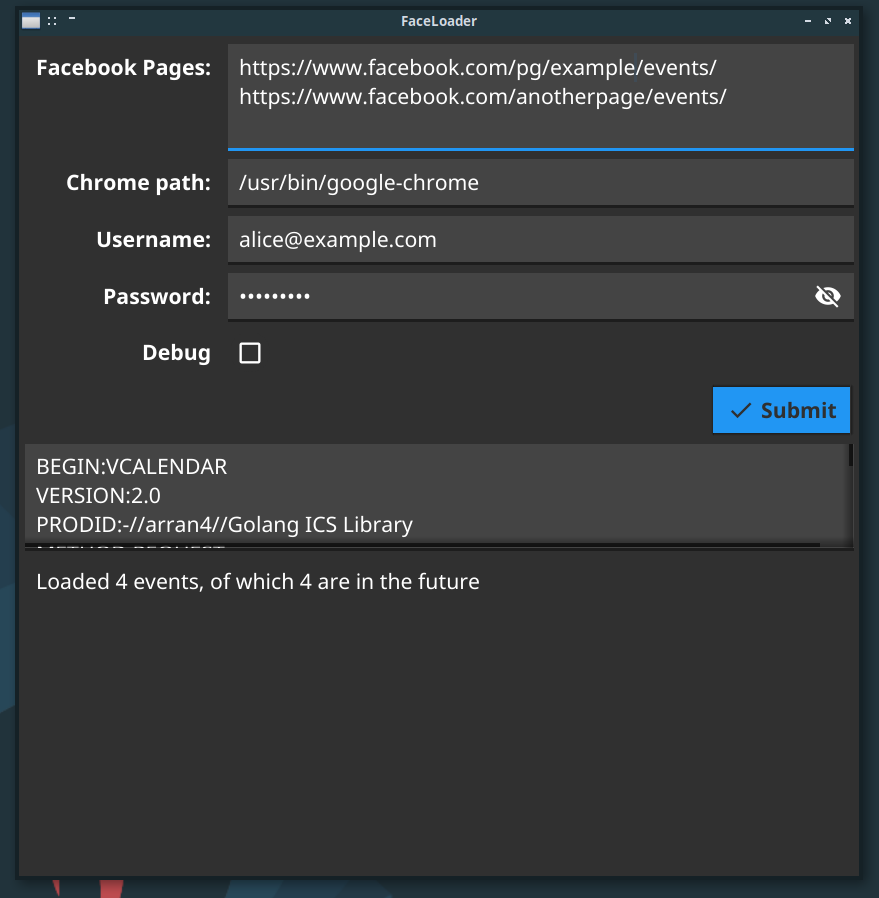
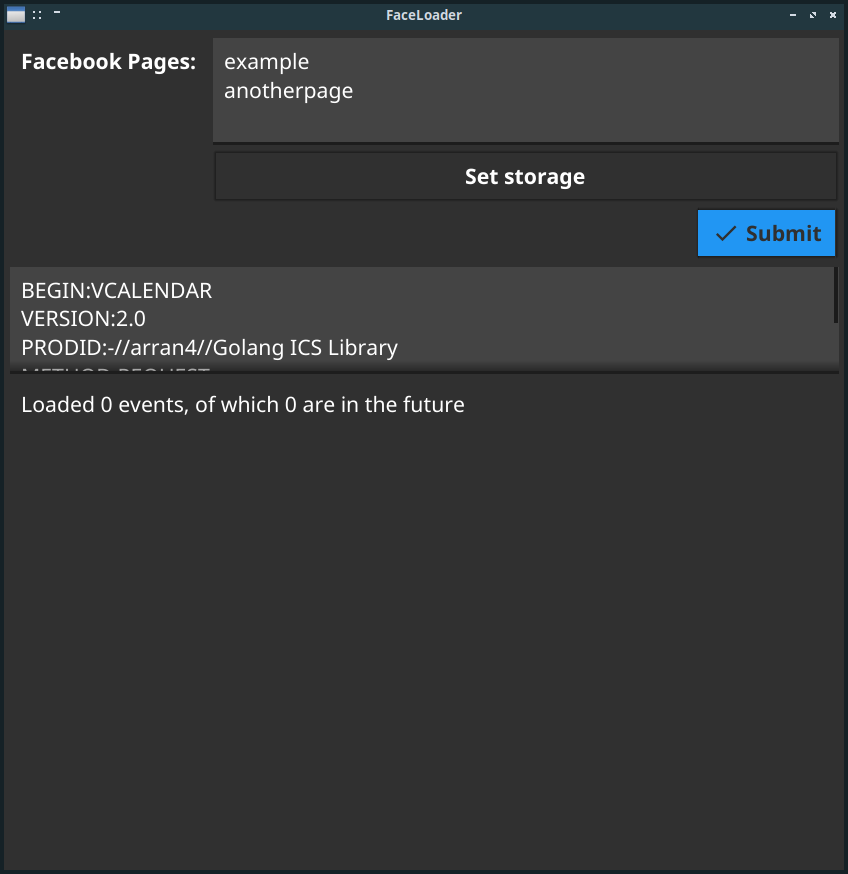
docs: document the new features in the previous release

diff --git a/README.md b/README.md
@@ -38,12 +38,11 @@ go run .
 
 ![screenshot.png](screenshot.png)
 
-1. Add all the Facebook event pages that you want to load events from, making sure you include the full URL to the events page (see the screenshot)
-2. Provide the path to Chrome (eg /usr/bin/chrome)
-3. Provide your Facebook username and password (it runs without, but won't find as many events)
-4. Press "Submit" and be patient
+1. Add all the Facebook event pages that you want to load events from, making sure you give just the page name from the url, not the full url (see the screenshot)
+2. Set a directory to write the ics calendar file to
+3. Press "Submit" and be patient
 
-The ical file will be shown in the output
+The ical file will be shown in the output and written to a file
 
 ## Development
 
